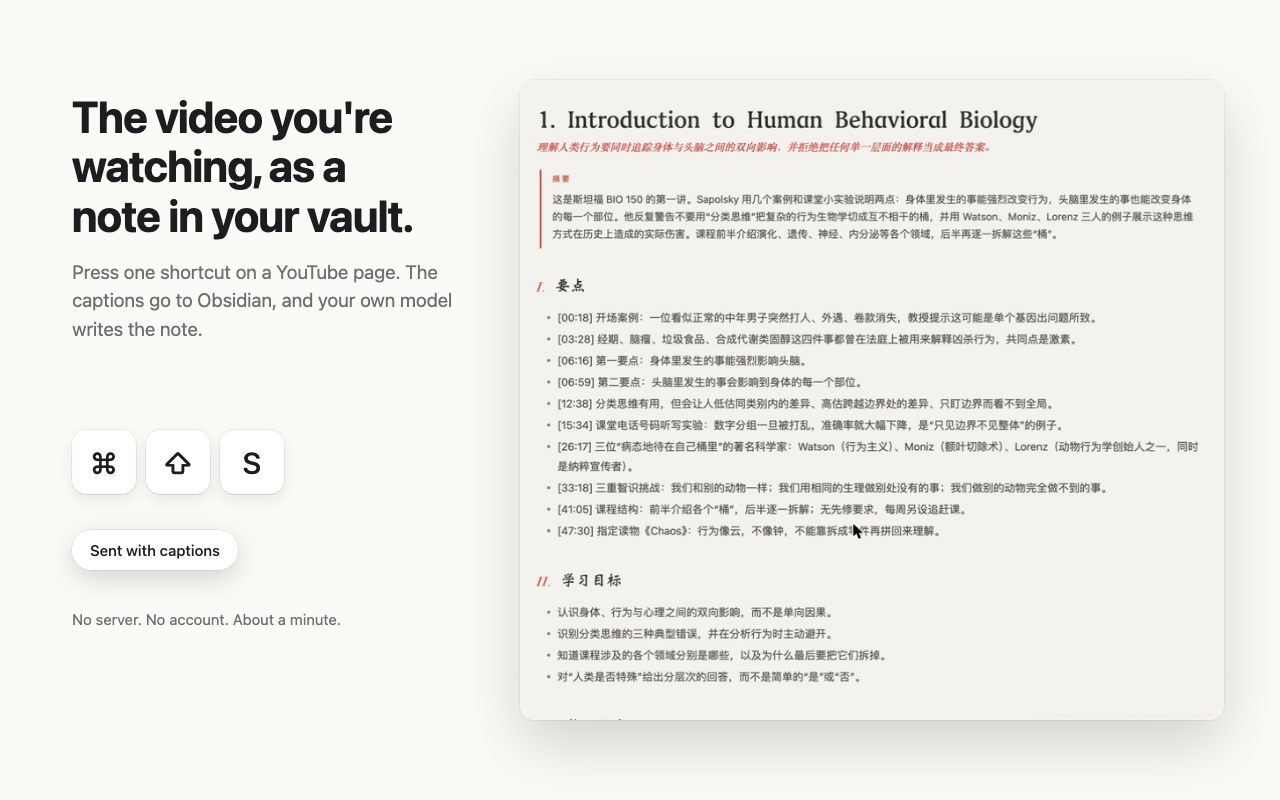
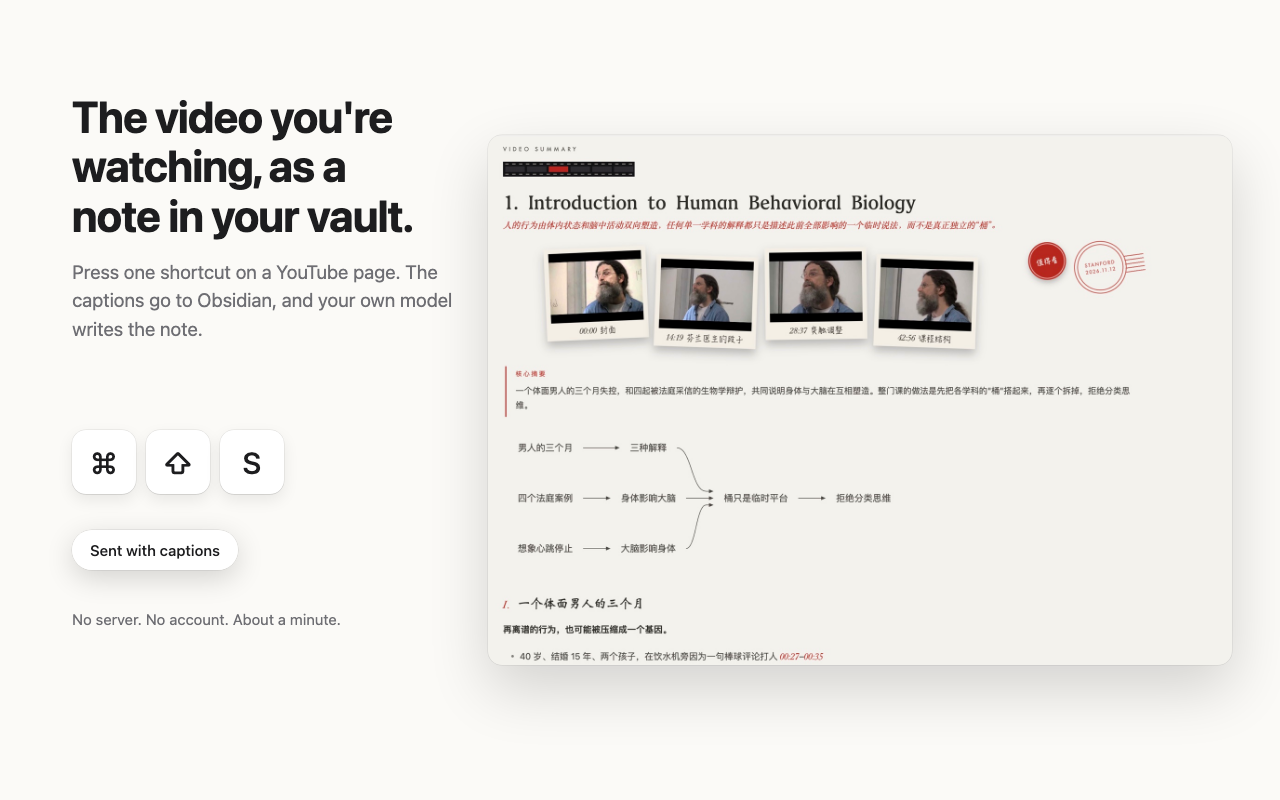
Use a current Ithaca-style note in the store hero

Changed region(s): [[0.375, 0.125, 0.9375, 0.6875], [0.375, 0.7188, 0.9375, 0.9375]]

diff --git a/docs/store/src/store.html b/docs/store/src/store.html
@@ -102,15 +102,14 @@
       }
       .note {
         position: absolute;
-        top: 80px;
-        left: 520px;
-        width: 704px;
-        height: 640px;
+        top: 50%;
+        left: 488px;
+        width: 744px;
+        height: 530px;
+        transform: translateY(-50%);
         overflow: hidden;
         border-radius: 14px;
-        background: url(note.jpg) no-repeat;
-        background-size: 1249px 739px;
-        background-position: -230px -84px;
+        background: #f3f2ef url(note.jpg) no-repeat 0 0 / 100% auto;
         box-shadow:
           0 0 0 0.5px rgb(0 0 0 / 0.1),
           0 24px 60px rgb(0 0 0 / 0.16);
